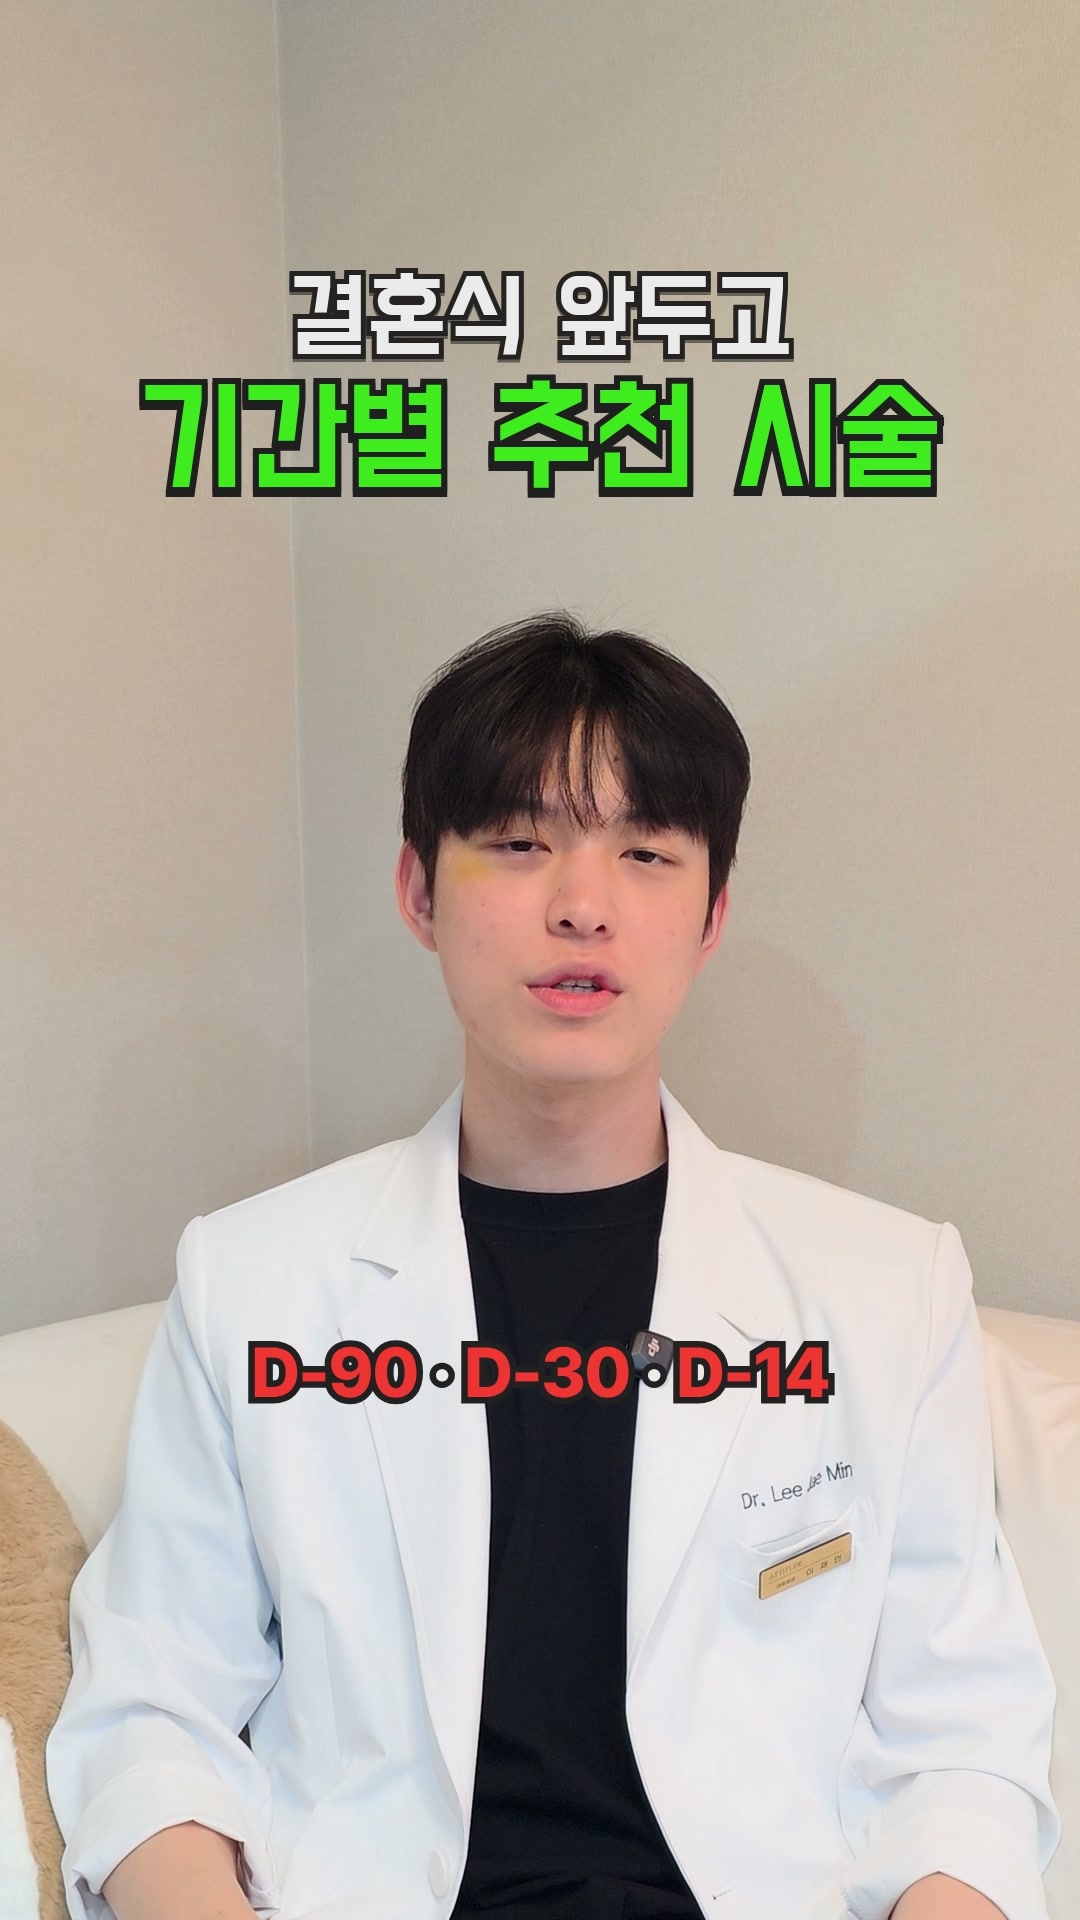
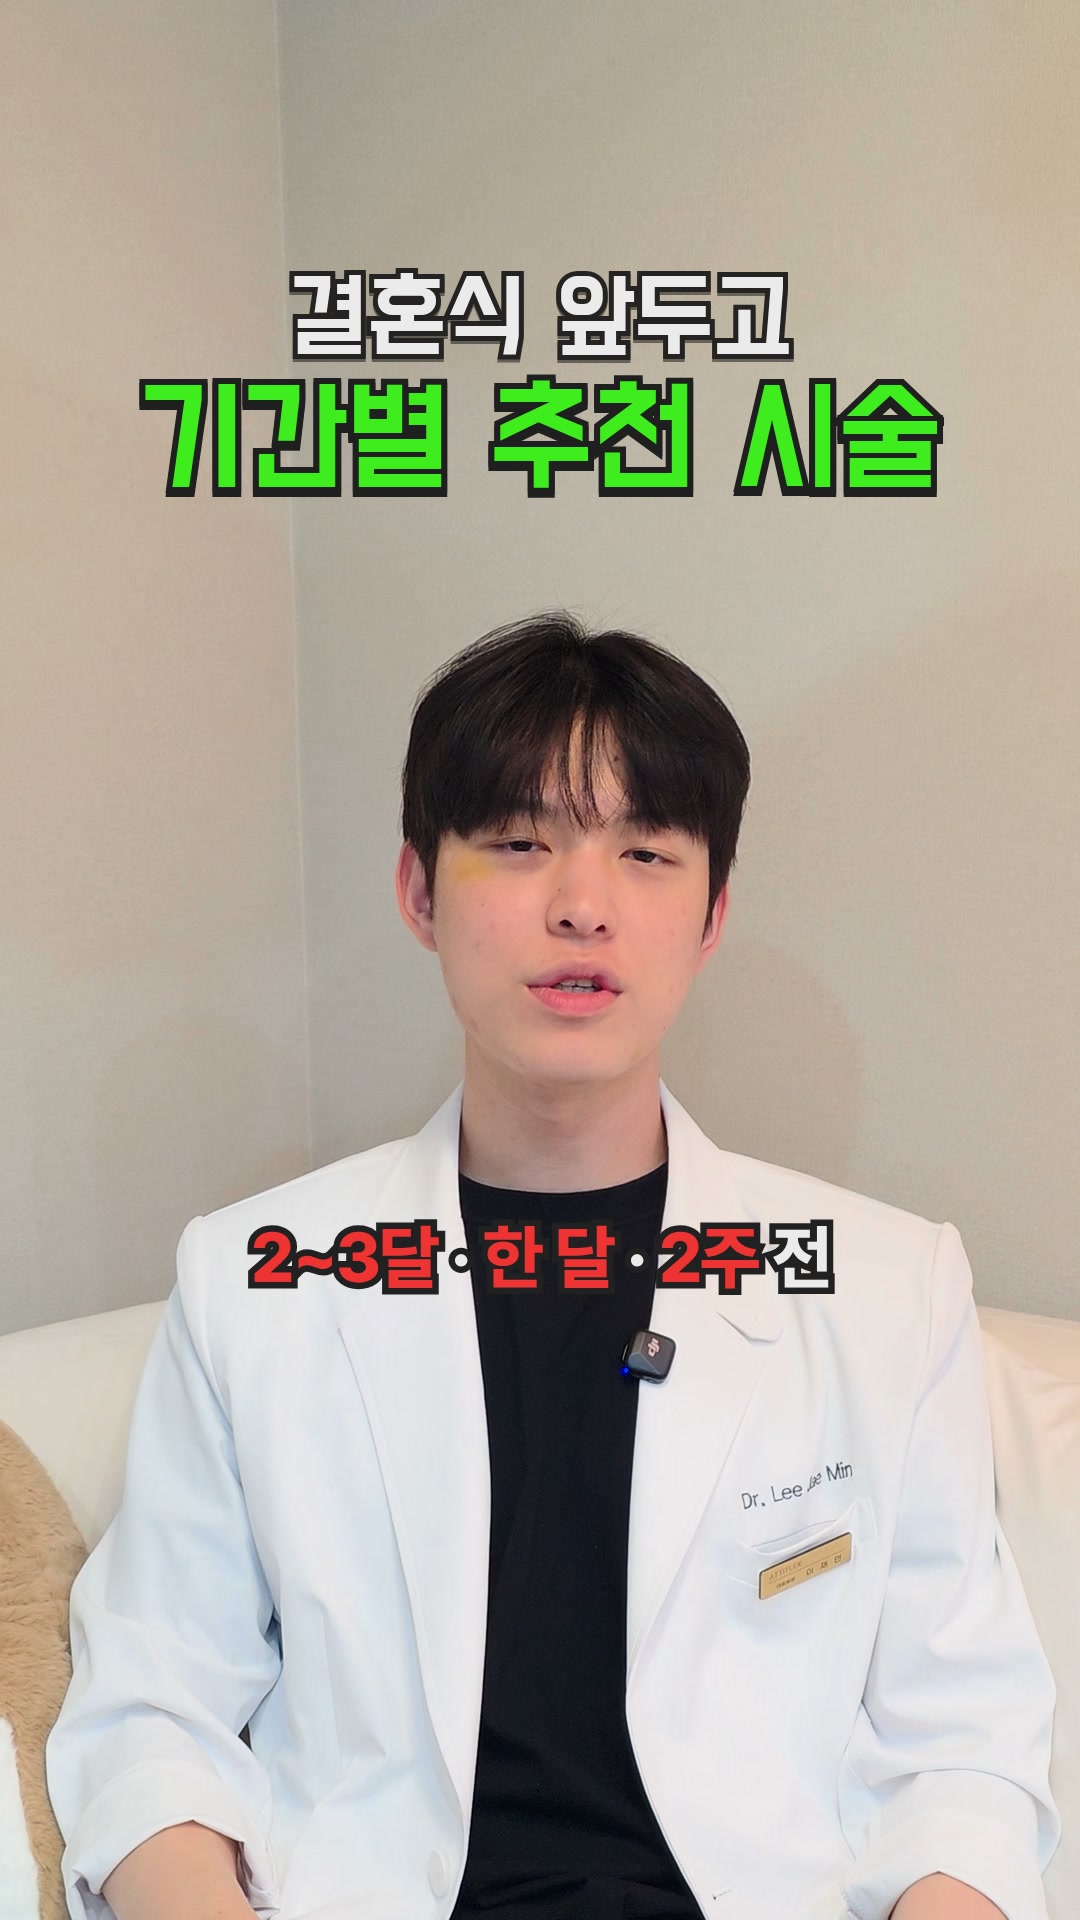
Finish wedding reel review fixes and refresh notes
Hold the 리투오 diagram through its phrase, change zoom only at real
cuts and keep the crop across breath trims, lift the title clear of
stray hairs, crop the Onda photo to the device body, remove residual
bezel wordmarks, match caption to spoken product name, move the cover
D-day line off the lapel mic. README now documents the delivered build.

Claude-Session: https://claude.ai/code/session_015iv4uUKW8AbrYF6qvAiKTG

Changed region(s): [[0.2139, 0.625, 0.7944, 0.75]]

diff --git a/reels/build/overlay5.html b/reels/build/overlay5.html
@@ -38,7 +38,7 @@ const CUT=21.18, DEL=0.98, END=53.61;
 const M=t=>t<CUT?t:(t<CUT+DEL?CUT:Math.min(END,+(t-DEL).toFixed(3)));
 const OLD_END=99;
 const HEAD0=[
- [0,2.8,'<div class="tl hollow">결혼식 앞두고</div><div class="tl neon">기간별 추천 시술</div>'],
+ [0,2.8,'<div style="margin-top:-12px"><div class="tl hollow">결혼식 앞두고</div><div class="tl neon">기간별 추천 시술</div></div>'],
  [2.8,4.9,'<div class="tl neon sm">&lt;결혼식 2~3달 전&gt;</div>'],
  [33.404,35.6,'<div class="tl neon sm">&lt;결혼식 한 달 전&gt;</div>'],
  [49.58,51.6,'<div class="tl neon sm">&lt;결혼식 2주 전&gt;</div>']];
@@ -50,15 +50,15 @@ const SUB0=[
  [13.474,14.7,'탄력이나 잔주름'],[14.7,15.84,'개선이 필요하다면'],[15.84,17.844,'<r>써마지 · 쎄르프</r>'],
  [17.844,19.32,'모공이랑 피부결'],[19.32,20.468,'개선을 원한다면'],[20.468,22.16,'<r>리투오</r>'],[22.16,23.76,'같은 주사 시술'],
  [23.76,25.55,'<r>홍조</r>나 <r>염증</r>'],[25.55,26.56,'<r>여드름</r>이 심하다면'],[26.56,28.7,'<r>리쥬란</r> 시술'],
- [28.7,29.54,'얼굴이 <r>건조</r>하다면'],[29.54,30.518,'<r>물광주사</r>'],[30.518,31.94,'<r>스킨바이브 · 리바이브</r>'],[31.94,33.404,'같은 시술'],
- [33.404,34.14,'<r>한 달</r> 전이라면'],[34.14,35.78,'<r>티타늄 · 온다</r>'],[35.78,37.17,'시술을 추천'],
+ [28.7,29.54,'얼굴이 <r>건조</r>하다면'],[29.54,30.518,'<r>물광주사</r>'],[30.518,31.94,'<r>스킨바이브 · 스킨리바이브</r>'],[31.94,33.404,'같은 시술'],
+ [33.404,34.472,'<r>한 달</r> 전이라면'],[34.472,35.78,'<r>티타늄 · 온다</r>'],[35.78,37.17,'시술을 추천'],
  [37.17,37.72,'티타늄은'],[37.72,38.42,'티타늄은','<g>①</g> 미백'],[38.42,39.66,'티타늄은','<g>①</g> 미백','<g>②</g> 탄력'],
  [39.66,41.93,'티타늄은','<g>①</g> 미백','<g>②</g> 탄력','<g>③</g> 얼굴 윤곽 정리에 도움'],
  [41.93,43.62,'온다는 얼굴 윤곽 정리에'],[43.62,44.85,'좀 더 <r>특화</r>'],
  [44.85,46.32,'주사 시술은'],[46.32,47.36,'<r>한 달 전</r>까지'],[47.36,49.58,'앞서 말한 것 모두 가능'],
  [49.58,51.44,'<r>2주</r>밖에 안 남았다면'],[51.44,52.64,'<r>티타늄</r>을'],[52.64,OLD_END,'추천드립니다']];
-const img=(f,c)=>`<div class="card"><img src="file://${location.pathname.replace(/[^/]+$/,'')}../dev2/${f}.png"></div>`;
-const img2=(a,b)=>`<div class="card two"><img src="file://${location.pathname.replace(/[^/]+$/,'')}../dev2/${a}.png"></div><div class="card two"><img src="file://${location.pathname.replace(/[^/]+$/,'')}../dev2/${b}.png"></div>`;
+const img=(f,c)=>`<div class="card"><img src="file://${location.pathname.replace(/[^/]+$/,'')}assets/${f}.png"></div>`;
+const img2=(a,b)=>`<div class="card two"><img src="file://${location.pathname.replace(/[^/]+$/,'')}assets/${a}.png"></div><div class="card two"><img src="file://${location.pathname.replace(/[^/]+$/,'')}assets/${b}.png"></div>`;
 const emo=(e,sm)=>`<div class="emoji${sm?' sm':''}">${e}</div>`;
 function cal(d,fs=172){return `<div class="card" style="padding:0;overflow:hidden;width:430px"><div style="background:#ff2b2b;color:#fff;font:800 44px/1 Sub;padding:20px 0">WEDDING 💍</div><div style="font:800 ${fs}px/1 Sub;color:#141414;padding:30px 0 36px;letter-spacing:-4px;white-space:nowrap;height:238px;display:flex;align-items:center;justify-content:center">${d}</div></div>`}
 
@@ -97,11 +97,11 @@ const GFX0=[
  [0,2.0,emo('💍')],[3.88,5.62,cal('D-60~90',96)],
  [7.85,8.66,face(1)],[8.66,9.548,face(2)],[9.548,11.54,face(3)],
  [12.14,13.474,img('ultherapy')],[15.84,17.844,img2('thermage','xerf')],
- [17.844,20.468,pores()],[20.468,22.16,inject('#e8587a')],[22.16,23.76,emo('💉','sm')],
+ [17.844,20.468,pores()],[20.468,23.76,inject('#e8587a')],
  [23.76,26.56,redness()],[27.18,28.7,inject('#f0a35e')],[29.54,30.518,emo('💧','sm')],
  [30.518,31.94,inject('#3fa9f5')],
- [33.404,34.472,cal('D-30')],[34.472,37.17,img2('titanium','onda')],
- [41.93,44.85,img('onda')],[44.85,46.32,emo('💉','sm')],
+ [33.404,34.472,cal('D-30')],[34.472,37.17,img2('titanium','onda_body')],
+ [41.93,44.85,img('onda_body')],[44.85,46.32,emo('💉','sm')],
  [49.58,51.44,cal('D-14')],[51.44,OLD_END,img('titanium')]];
 const map=L=>L.map(r=>[M(r[0]),M(r[1]),...r.slice(2)]).filter(r=>r[1]>r[0]);
 const HEAD=map(HEAD0), SUB=map(SUB0), GFX=map(GFX0);

diff --git a/reels/build/cut.py b/reels/build/cut.py
@@ -3,7 +3,8 @@
 python cut.py plan.json
 plan = {"src": "footage/x.mp4", "out": "x_cut.mov", "sil": "tr/x.sil",
         "segs": [[in, out], ...],          # 쓸 구간(원본 초)
-        "zooms": [1.24, 1.32]}             # 컷마다 번갈아 쓸 배율(원본 9:16 4K 기준, 1.0 = 화면의 75% 높이)
+        "zooms": [1.24, 1.32],             # 컷마다 번갈아 쓸 배율(원본 9:16 4K 기준, 1.0 = 화면의 75% 높이)
+        "zoom_list": [...]}                # (선택) 컷별 배율을 직접 지정. 원본이 이어지는 곳은 같은 배율로 두면 화면이 바뀌지 않음
 segs 안의 0.22초 넘는 쉼은 자동으로 걷어 내고, 그 자리가 컷이 된다. 결과 옆에 <out>.json(컷 목록) 저장.
 """
 import json, os, subprocess, sys
@@ -60,16 +61,21 @@ def main():
         pieces.append([cur, b])
     zooms = plan.get("zooms", [1.24, 1.32]); cw0, ch0 = W * .75, H * .75
     tmp = P(plan["out"] + ".parts"); os.makedirs(tmp, exist_ok=True)
-    last = None; files = []; shots = []; T = 0
+    last = None; prev = (0, 0, 0, -9); files = []; shots = []; T = 0
     for i, (a, b) in enumerate(pieces):
         f = face_at(src, a, b, W, H) or last or [W / 2, H * .38, H * .14]; last = f
-        z = zooms[i % len(zooms)]; w = int(cw0 / z) // 2 * 2; h = int(ch0 / z) // 2 * 2
+        z = plan["zoom_list"][i] if "zoom_list" in plan else zooms[i % len(zooms)]
+        w = int(cw0 / z) // 2 * 2; h = int(ch0 / z) // 2 * 2
         x = int(max(0, min(W - w, f[0] - w / 2))); y = int(max(0, min(H - h, f[1] - .40 * h)))
+        # 숨 한 번 걷어 낸 정도(0.3초 미만)로 이어지는 같은 배율 컷은 직전 화면 위치를 그대로 써서 튀지 않게
+        if i and z == prev[0] and 0 <= a - prev[3] < .3:
+            x, y = prev[1], prev[2]
+        prev = (z, x, y, b)
         d = b - a
         vf = (f"crop={w}:{h}:{x}:{y},scale=1080:1920:flags=lanczos,fps=30,{tonemap(trc)}"
               "eq=contrast=1.03:saturation=1.03,unsharp=5:5:0.4,format=yuv420p")
         af = f"afade=t=in:d=0.015,afade=t=out:st={d - .025:.3f}:d=0.025,aresample=48000"
-        part = os.path.join(tmp, f"{i:02d}_{a:.2f}_{b:.2f}_{z}.mov")
+        part = os.path.join(tmp, f"{i:02d}_{a:.2f}_{b:.2f}_{z}_{x}_{y}.mov")
         if not os.path.exists(part):
             subprocess.run(["ffmpeg", "-v", "error", "-y", "-ss", f"{a}", "-t", f"{d:.3f}", "-i", src, "-vf", vf, "-af", af, "-ac", "2",
                             "-c:v", "libx264", "-crf", "14", "-preset", "medium", "-color_primaries", "bt709", "-color_trc", "bt709",

diff --git a/reels/README.md b/reels/README.md
@@ -1,41 +1,51 @@
 # 결혼식 D-day별 시술 릴스 (이재민 원장)
 
-- 완성본: `wedding_dday_leejaemin.mp4` (1080×1920 · 30fps · 54.6초 · -14.4 LUFS). 저장소 `.gitignore`가 `*.mp4`를 제외하므로 파일은 세션에서 따로 전달합니다.
-- 미리보기: `contact_sheet.jpg`(12장면), `cut_check.jpg`(컷 직전·직후 프레임 6쌍), `cover_preview.jpg`
-- 원본: Drive `20261002_213221.mp4`(84초 본 테이크). 나머지 두 클립(`213421`, `213435`)은 시술명·적응증만 읽은 보조 녹음이라 쓰지 않았습니다.
-- 이동훈 원장 영상 6개는 Drive 공유가 '링크가 있는 모든 사용자'가 아니어서 받지 못했습니다.
+- 완성본: `wedding_dday_leejaemin.mp4` (1080×1920 · 30fps · 53.6초 · -14.4 LUFS · SDR BT.709)
+- 업로드용: `wedding_dday_leejaemin_upload.mp4` (같은 영상, 24MB)
+- 커버: `cover.jpg` (프로필 그리드 3:4 크롭 y 240~1680 안에 제목이 다 들어가게 따로 만든 것. 업로드할 때 '커버 편집'에서 이 이미지를 고르면 됩니다)
+- 미리보기: `contact_sheet.jpg` (12장면)
+- 저장소 `.gitignore`가 `*.mp4`를 제외해서 영상은 커밋되지 않습니다. 파일은 세션에서 따로 전달합니다.
+- 원본: Drive `20261002_213221.mp4` (84초 본 테이크). 나머지 두 클립은 시술명과 적응증만 읽은 보조 녹음이라 쓰지 않았습니다.
 
-## 대본집(1부 공통 문법) 적용표
+## 화면 배치 (모바일 기준)
 
-| 대본집 기준 | 이 영상 |
+| 요소 | 위치·크기 | 근거 |
+|---|---|---|
+| 제목 카드 (0~2.8초) | 위 193~410px, 2줄. 「결혼식 앞두고」는 흰 글씨에 검은 테두리 100px, 「기간별 추천 시술」은 형광 연두 128px | 대본집: 위 11~29%, 첫 컷까지. 머리카락과 16px 이상 띄움(프레임마다 잼) |
+| 소제목 | 같은 자리. <결혼식 2~3달 전> · <한 달 전> · <2주 전> | 단락마다 1.5~3초 |
+| 자막 | y 1084부터, Pretendard ExtraBold 76px, 흰 글씨에 13px 검은 테두리, 강조어는 빨강. 폭이 1000px를 넘으면 자동 축소 | 대본집: 위에서 60%, 한 줄. 턱 아래 40px까지는 얼굴로 보고 비움 |
+| 삽입 그래픽 | 자막 바로 아래 y 1196~1615. 사진 카드 392px, 두 장이면 330px | 하단 15%(y≥1632)와 오른쪽 버튼 열(x≥960)은 비움 |
+| 얼굴 | 컷마다 얼굴을 찾아 얼굴 중심을 가로 50%, 위 40%에 고정. 배율은 실제 컷에서만 124%와 132%를 번갈아 씀 | 얼굴이 흔들리지 않게 |
+
+- 얼굴이 평소보다 내려오는 컷(몸을 앞으로 숙인 27.7~29.5초 등)에서는 그 컷 동안 자막과 그래픽을 같이 내립니다(최대 14px). `build/shotface.py`가 계산합니다.
+- `build/qa.py`로 1,608프레임을 전부 검사했습니다. 얼굴 영역(검출 상자 + 턱 아래 40px)에 겹친 프레임 0개, 하단 UI 영역 0개, 오른쪽 버튼 영역 0개.
+
+## 리뷰를 거쳐 고친 것
+
+독립 검토 에이전트 4명(얼굴 가림, 모바일 가독성, 대본집 기준, 의료광고 가드)이 47건을 냈고, 반박 검증을 통과한 것(중복 포함 31건)과 보완 검토 5건 가운데 아래를 반영했습니다. 수정본을 다시 검증해 확인된 수정 24건과 새로 나온 7건도 처리했습니다.
+
+| 항목 | 고친 내용 |
 |---|---|
-| 첫 단어 0.0초, 인트로·인사 없음 | 0.0초 "결혼식이 얼마나 남았냐에 따라 다른데요" |
-| 구마다 컷, 평균 샷 1.55초, 0.3초 넘는 공백 없음 | 0.22초 넘는 숨·공백은 전부 걷어 냄(18컷, 평균 3.0초). 말이 이어지는 곳에서는 화면을 바꾸지 않음 — 1차본의 1.4초 단위 가짜 컷이 얼굴을 흔들어 보이게 해서 뺌 |
-| 컷마다 7% 안팎 확대·축소 | 실제 컷에서만 124% ↔ 132% 교대(6.5%). 컷마다 얼굴을 검출해(`build/faces.py`) 얼굴 중심을 늘 가로 50% · 위 40%에 고정 |
-| 강조어 직후 2프레임 순간 줌 | 쓰지 않음(얼굴 흔들림 보정 요청으로 제거) |
-| 얼굴 중심 위에서 40%, 얼굴 높이 17% | 원본 4K 세로에서 잘라 맞춤(쿠션 로고는 화면 밖) |
-| 제목 카드: 위 11~29%, 2줄, 세로로 긴 굵은 글씨, 형광 + 속 빈 테두리, 첫 프레임부터 약 3초 | 「결혼식 앞두고(외곽선) / 기간별 필수 시술(형광 연두 + 검은 테두리)」 0~2.6초. 글꼴 Do Hyeon |
-| 단락마다 소제목 1.5~3초 | <결혼식 2~3달 전> · <결혼식 한 달 전> · <결혼식 2주 전> |
-| 자막: 위에서 60%, 한 줄, 흰 글씨 + 어두운 테두리, 약 50px, 1초마다, 2~4어절, 강조어만 빨강, = · [ ] · 번호 | 42개, Pretendard ExtraBold 56px. "[강한 리프팅] = 울쎄라", 티타늄 ①②③ 한 줄씩 쌓기 |
-| 그래픽: 자막 아래 가슴, 말과 같은 프레임에 켜고 약 2초, 첫 1초 안에 첫 그래픽 | 21개. 0.0초 💍부터. 장비·제품 사진은 에티튜드 홈페이지 `/img/dev/` 이미지, 도식(얼굴 부위·모공·홍조·D-day 달력)은 직접 그림 |
-| 소리 -14 LUFS, 음악 없음 또는 -20dB | -14.4 LUFS, 말소리만 |
-| 마지막 단어 0.2초 뒤 끝, 엔딩 카드·로고·팔로우 요청 없음 | "가장 강력하게 추천" 뒤 0.2초에서 끝 |
+| 처방약 제품명(가드 ⑦) | 원장이 말한 "스킨보톡스"를 소리에서 잘라 냈습니다(원본 30.90~31.88초). "리투오 같은 주사 시술을 해볼 수 있고요"로 자연스럽게 이어지는 것을 다시 받아써서 확인했습니다. |
+| 타사 로고·제품 포장(가드 7-A) | 리투오·리쥬란·스킨바이브·벨로테로 제품 상자 사진을 직접 그린 주사 도식으로 바꿨습니다. 피부 단면과 주사기, 색으로 시술을 구분했고 상표는 넣지 않았습니다. 티타늄의 'Alma TRIO', 온다의 'onda', 울쎄라 화면 테두리의 'MERZ AESTHETICS', 써마지의 'thermage' 표기는 지웠습니다. |
+| 과장 표현(가드 ②④) | '필수 시술' → '추천 시술', '[강한 리프팅]' → '[초음파 리프팅]', '티타늄 =' → '티타늄은 … 얼굴 윤곽 정리에 도움', '가장 추천'·'가장 강력하게 추천' → '추천', 👍 삭제 |
+| 그래픽 싱크 | 그래픽마다 자기 시술 말이 끝나면 내려가고, 자막 교체는 컷과 같은 프레임에 맞췄습니다. 첫 달력은 '2~3달'에 맞춰 D-60~90으로 바꿨습니다. |
+| HDR | 원본은 휴대폰 HLG(BT.2020)입니다. HDR 태그가 그대로 남아 앱마다 색이 다르게 보이던 것을 SDR BT.709로 톤매핑했습니다. |
 
-카페 글('왜 시청법')에서는 보색 대비 시각 트리거(형광 연두·빨강 vs 흰 가운·회색 벽), 숫자를 앞에 세우기(2~3달·한 달·2주·D-90/30/14), 꾸민 폰트·테두리 박스·효과음 남발을 피하기를 반영했습니다.
+## 반영하지 않은 것
 
-## 가드 기준으로 고친 것 (분석 보고서 6장)
-
-- 뺀 말: "티타늄을 하면 일단 얼굴이 작아보여요 … 가장 추천되는 이유입니다"(효과 단정, ④). 2주 전 단락은 "티타늄을 가장 강력하게 추천드리고 싶습니다"에서 끝냅니다.
-- 처방약 제품명(⑦): 말은 "스킨 보톡스"지만 자막은 "스킨 톡신". 톡신 제품 사진은 넣지 않았습니다.
-- 가격·전후 사진·타 병원 비교·연예인 없음.
-- 말에 "가장 추천"이 두 번 남아 있습니다(원장 의견 화법). 더 보수적으로 가려면 해당 구를 잘라야 합니다.
+- 리뷰에서 대본집대로 1.5초마다 컷과 순간 줌을 넣으라는 지적이 있었지만, 얼굴이 흔들린다는 요청에 따라 넣지 않았습니다.
+- 소리로는 '가장 추천'이 두 번 남아 있습니다(원장 의견 화법). 더 보수적으로 가려면 해당 구를 잘라야 합니다.
+- 길이 53.6초는 보고서 기준(25~35초)보다 깁니다. 줄이려면 '한 달 전' 단락(32.4초~)부터 따로 떼어 두 편으로 나누는 방법이 있습니다.
+- 원장 오른쪽 눈 밑의 노란 자국(원본에 있음)은 출연자 얼굴 보정이라 승인을 받은 뒤에만 처리합니다.
+- 가슴의 무선 마이크 로고(dji)는 촬영본에 그대로 보입니다.
 
 ## 캡션 (붙여 넣기용)
 
 ```
 (저장) 결혼식까지 남은 기간별 피부 시술 정리💍
 
-D-90 · 2~3달 전: 울쎄라 · 써마지 · 쎄르프 · 리투오 · 리쥬란 · 물광주사 · 스킨바이브
+D-60~90 · 2~3달 전: 울쎄라 · 써마지 · 쎄르프 · 리투오 · 리쥬란 · 물광주사 · 스킨바이브
 D-30 · 한 달 전: 티타늄 · 온다 (주사 시술은 한 달 전까지)
 D-14 · 2주 전: 티타늄
 
@@ -47,6 +57,11 @@ D-14 · 2주 전: 티타늄
 #에티튜드의원 #신사피부과 #웨딩피부관리 #결혼식준비 #신부관리
 ```
 
-## 다시 만들기
+## 다시 만들기 (`build/`)
 
-`build/faces.py`(컷별 얼굴 위치) → `build/cut4.py`(컷·줌) → faster-whisper로 단어 시각 → `build/overlay2.html` + `build/render2.cjs`(오버레이 PNG 30fps) → ffmpeg 합성(순간 줌·라우드니스). 원본 경로는 스크립트 안의 `footage/jm3.mp4`, 장비 사진은 `dev/`.
+1. `prep.py <작업폴더> 이름=DriveID ...` : 다운로드, 받아쓰기(단어 시각), 쉼 지점, 프레임 시트
+2. `cut.py plan_jm.json` : 구간을 자르고 0.22초 넘는 쉼을 걷어 냄. 컷마다 얼굴을 고정하고 HLG를 BT.709로 톤매핑. 결과는 `<out>.json`(컷 목록)
+3. `shotface.py <컷.mov> <컷.json> 1084 > shotoff.json` : 컷별 자막·그래픽 내림 값. `overlay5.html`의 `SHOTOFF`에 넣음
+4. `render2.cjs`(`OV=overlay5.html OD=ov node render2.cjs full 53.61`) : 오버레이 PNG를 30fps로. 글꼴은 `~/.fonts`의 Do Hyeon, Pretendard. 이미지는 `assets/`
+5. `qa.py <컷.mov> ov` : 얼굴 가림과 UI 영역 검사
+6. ffmpeg 합성: overlay → loudnorm -14 LUFS → libx264 BT.709 태그
